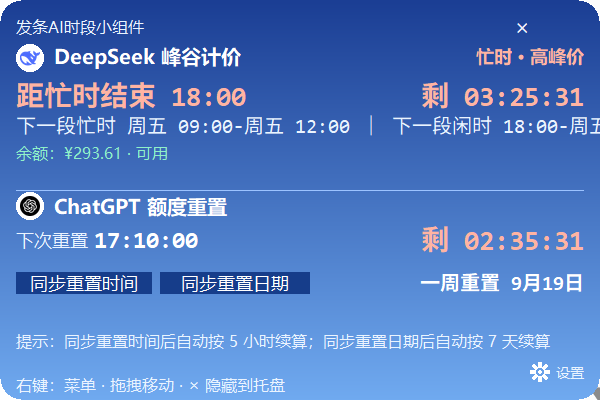
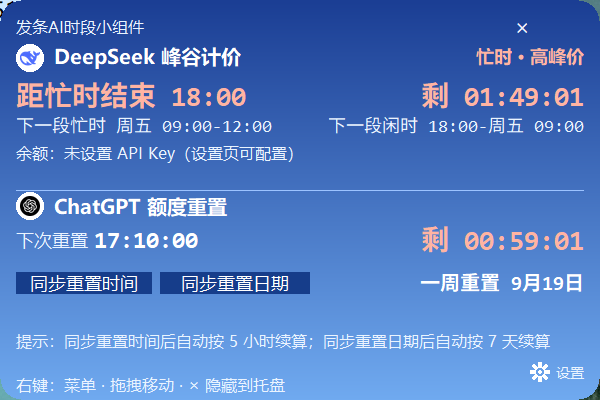
fix: split next-slot subline left/right, dedupe weekday in same-day range

diff --git a/deepseek_chatgpt_timer.py b/deepseek_chatgpt_timer.py
@@ -163,6 +163,13 @@ def fmt_hm(t: datetime) -> str:
     return f"{WEEKDAY_CN[t.weekday()]} {t.strftime('%H:%M')}"
 
 
+def fmt_range(a: datetime, b: datetime) -> str:
+    """起止区间：同日省略结束周几（周五 09:00-12:00）；跨天两端带周几（18:00-周五 09:00）"""
+    if a.date() == b.date():
+        return f"{fmt_hm(a)}-{b.strftime('%H:%M')}"
+    return f"{fmt_hm(a)}-{fmt_hm(b)}"
+
+
 def make_gradient(w: int, h: int, c1, c2) -> Image.Image:
     """垂直渐变：顶部 c1（深蓝）→ 底部 c2（浅蓝）。"""
     img = Image.new("RGB", (w, h))
@@ -560,7 +567,10 @@ class Widget(tk.Tk):
         self.ds_remain = cv.create_text(R, 96, text="", anchor="e",
                                         fill=FG_W, font=(MONO, 14, "bold"))
         self.ds_sub = cv.create_text(PAD, 126, text="", anchor="w",
-                                     fill=FG_DIM, font=(MONO, 10))
+                                     fill=FG_DIM, font=(MONO, 9))
+        # 下一段闲时 右对齐到右缘，避免整行过长出框
+        self.ds_sub_r = cv.create_text(R, 126, text="", anchor="e",
+                                       fill=FG_DIM, font=(MONO, 9))
         self.ds_balance = cv.create_text(PAD, 152, text="", anchor="w",
                                          fill=FG_DIM, font=(FONT, 8))
         # 分割线下移，与 ChatGPT 区块等高（两区纵向空间一致）
@@ -1087,6 +1097,7 @@ class Widget(tk.Tk):
             cv.itemconfig(self.ds_main, text="全天闲时（无时段切换）", fill=OFF_C)
             cv.itemconfig(self.ds_remain, text="")
             cv.itemconfig(self.ds_sub, text="")
+            cv.itemconfig(self.ds_sub_r, text="")
         else:
             phase = "忙时" if peak else "闲时"
             cv.itemconfig(self.ds_main,
@@ -1095,7 +1106,7 @@ class Widget(tk.Tk):
             cv.itemconfig(self.ds_remain,
                           text="剩 " + fmt_until(t1 - now),
                           fill=PEAK_C if peak else OFF_C)
-            # 下一段忙时 / 下一段闲时 两个时段信息
+            # 下一段忙时（左）/ 下一段闲时（右对齐）两个时段信息
             if t2:
                 st1 = is_peak(t1, self.override)
                 t3 = _walk(t2, st1)
@@ -1107,13 +1118,15 @@ class Widget(tk.Tk):
                     busy_a, busy_b = t2, t3
                 if off_b and busy_b:
                     cv.itemconfig(self.ds_sub,
-                                  text=f"下一段忙时 {fmt_hm(busy_a)}-{fmt_hm(busy_b)}"
-                                       f" ｜ 下一段闲时 {fmt_hm(off_a)}-{fmt_hm(off_b)}")
+                                  text=f"下一段忙时 {fmt_range(busy_a, busy_b)}")
+                    cv.itemconfig(self.ds_sub_r,
+                                  text=f"下一段闲时 {fmt_range(off_a, off_b)}")
                 else:
-                    cv.itemconfig(self.ds_sub,
-                                  text=f"下一段忙时 {fmt_hm(t1)} 起 ｜ 下一段闲时 {fmt_hm(t1)} 起")
+                    cv.itemconfig(self.ds_sub, text="")
+                    cv.itemconfig(self.ds_sub_r, text="")
             else:
                 cv.itemconfig(self.ds_sub, text="")
+                cv.itemconfig(self.ds_sub_r, text="")
 
         # 余额显示（15 分钟刷新一次，需在设置页配置 API Key）
         self._maybe_refresh_balance(now_ts)
@@ -1199,9 +1212,9 @@ class Widget(tk.Tk):
             st1 = is_peak(t1, None)
             t3 = _walk(t2, st1)
             if st1:
-                sub = f"下一段忙时 {fmt_hm(t1)}-{fmt_hm(t2)} ｜ 下一段闲时 {fmt_hm(t2)}-{fmt_hm(t3)}"
+                sub = f"下一段忙时 {fmt_range(t1, t2)} ｜ 下一段闲时 {fmt_range(t2, t3)}"
             else:
-                sub = f"下一段忙时 {fmt_hm(t2)}-{fmt_hm(t3)} ｜ 下一段闲时 {fmt_hm(t1)}-{fmt_hm(t2)}"
+                sub = f"下一段忙时 {fmt_range(t2, t3)} ｜ 下一段闲时 {fmt_range(t1, t2)}"
             lines.append(f"[selftest] sub_line: {sub}")
         lines.append(f"[selftest] balance: key={'set' if self.cfg.get('deepseek_api_key') else 'none'} "
                      f"state={self._balance}")
